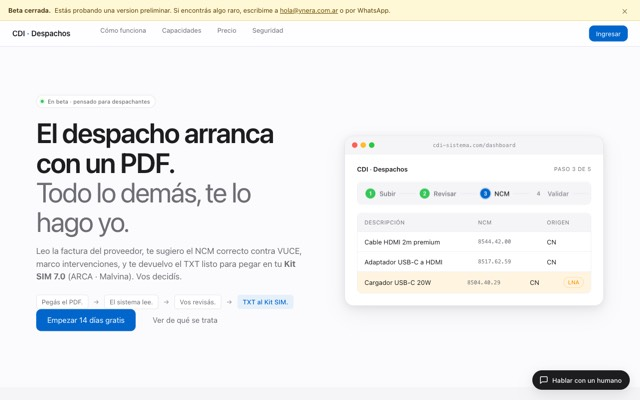
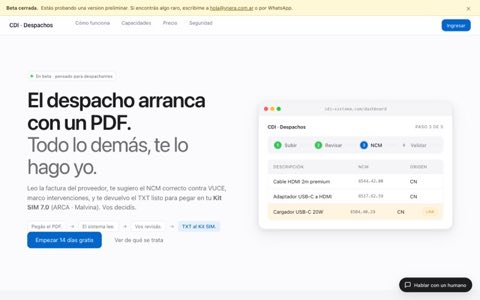
Optimiza screenshots: 480px ancho, JPEG calidad 55, max 120px altura. Total imagenes 28KB

diff --git a/index.html b/index.html
@@ -241,7 +241,7 @@ section{padding:110px 0;position:relative}
 .prod:hover .organ-beat{animation-duration:1.1s}
 .prod-link{display:inline-flex;align-items:center;gap:6px;font-family:var(--mono);font-size:13px;color:var(--coral);text-decoration:none;margin-top:12px;padding:8px 16px;border:1px solid rgba(255,106,72,.3);border-radius:8px;transition:background .2s,border-color .2s}
 .prod-link:hover{background:rgba(255,106,72,.08);border-color:var(--coral)}
-.prod-shot{width:100%;max-width:320px;height:auto;max-height:150px;object-fit:cover;border-radius:8px;margin-top:14px;border:1px solid var(--ink-15);display:block}
+.prod-shot{width:100%;max-width:280px;height:auto;max-height:120px;object-fit:cover;border-radius:6px;margin-top:12px;border:1px solid var(--ink-15);display:block}
 
 /* ── founders ── */
 .founders-lamina{position:relative;max-width:500px;margin:0 auto 56px;padding:0 10px}